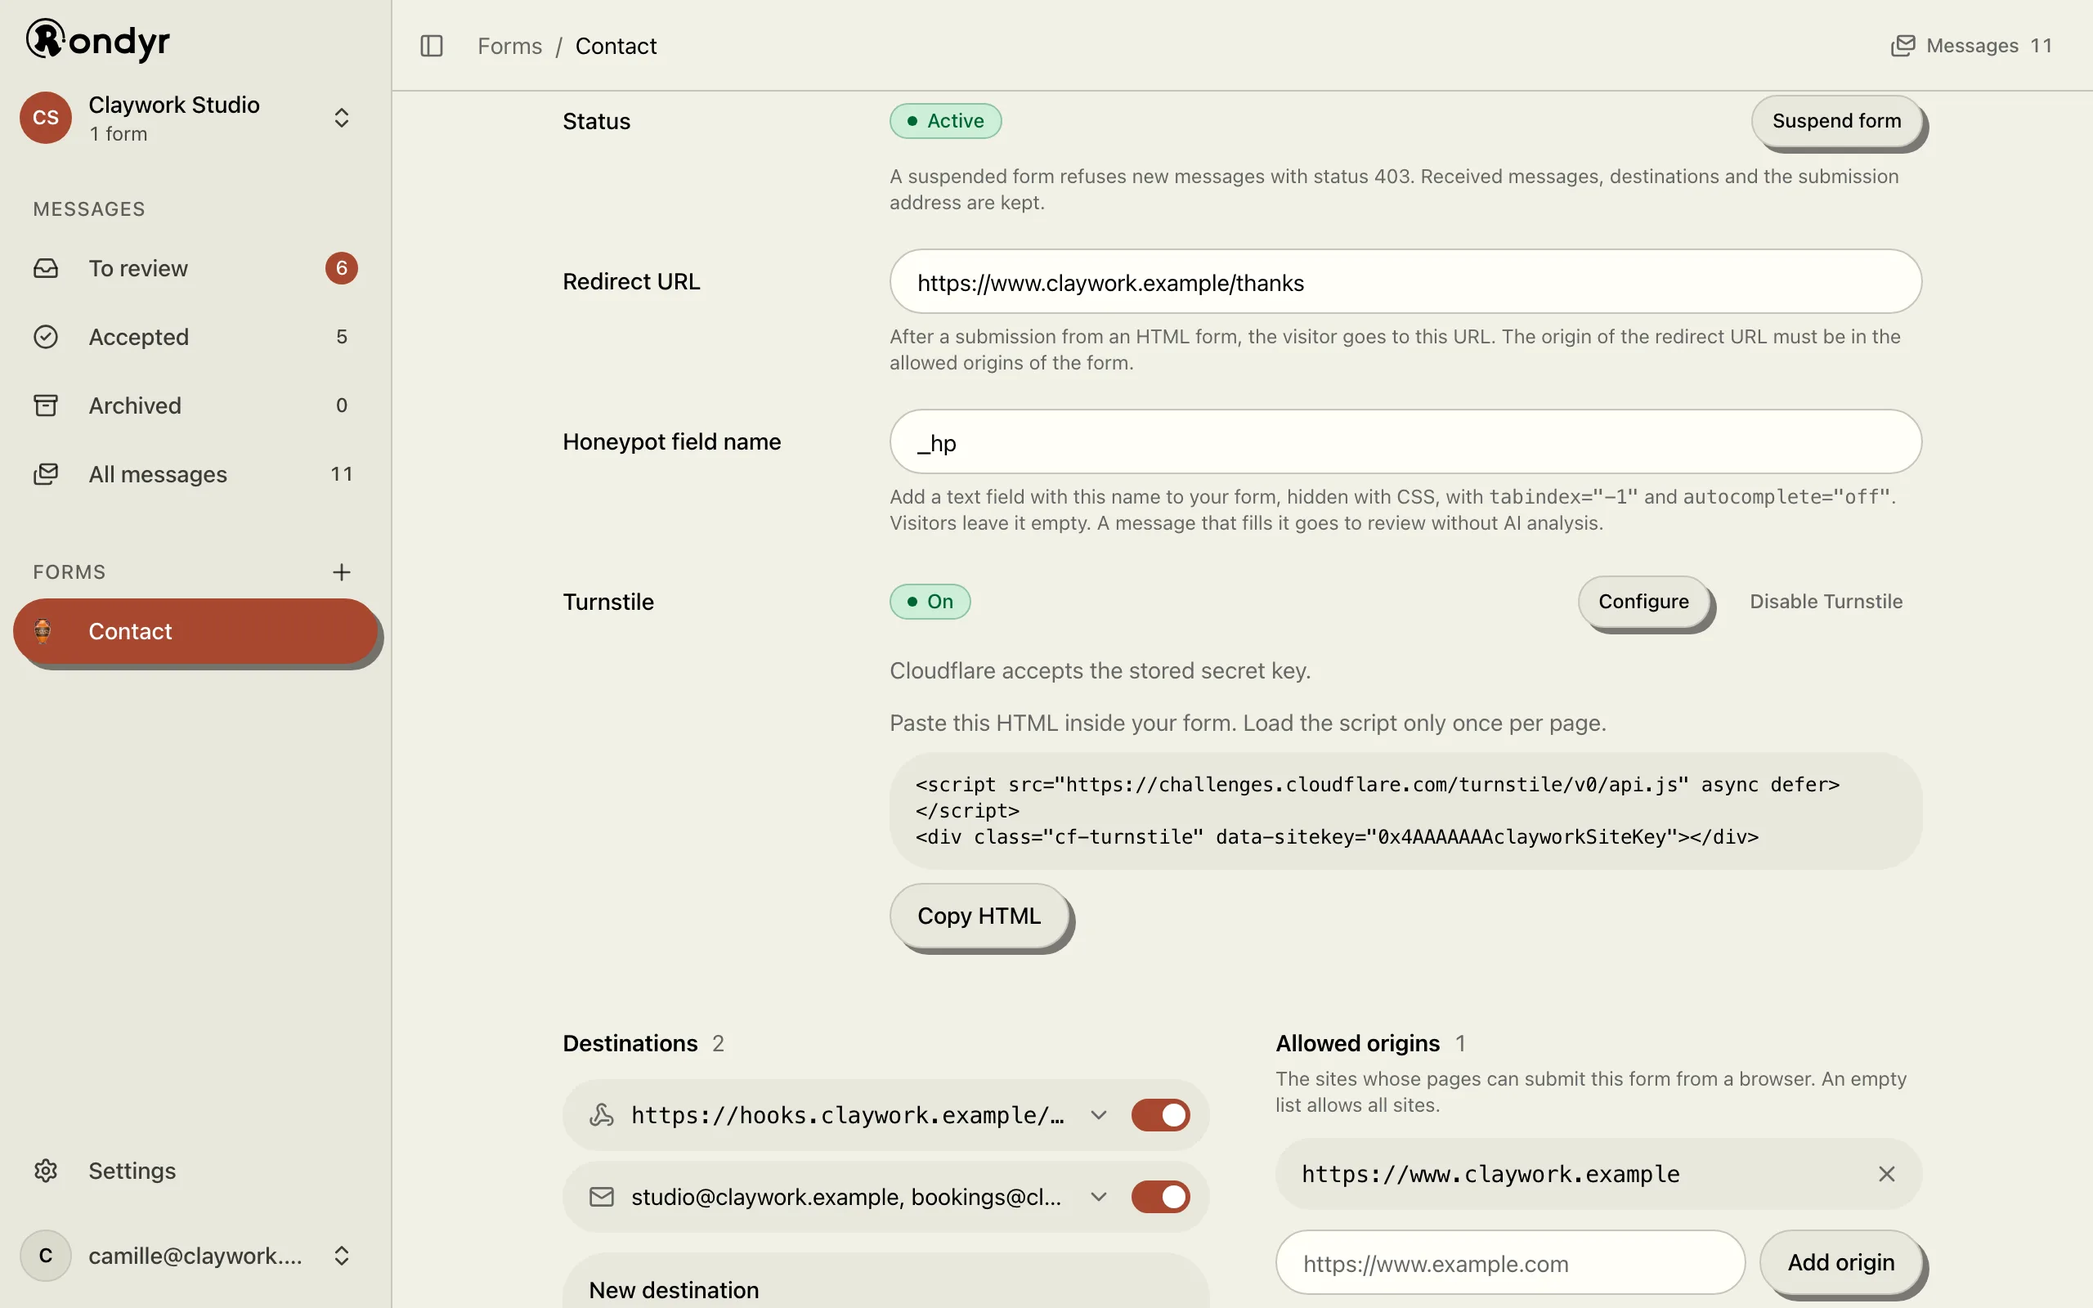
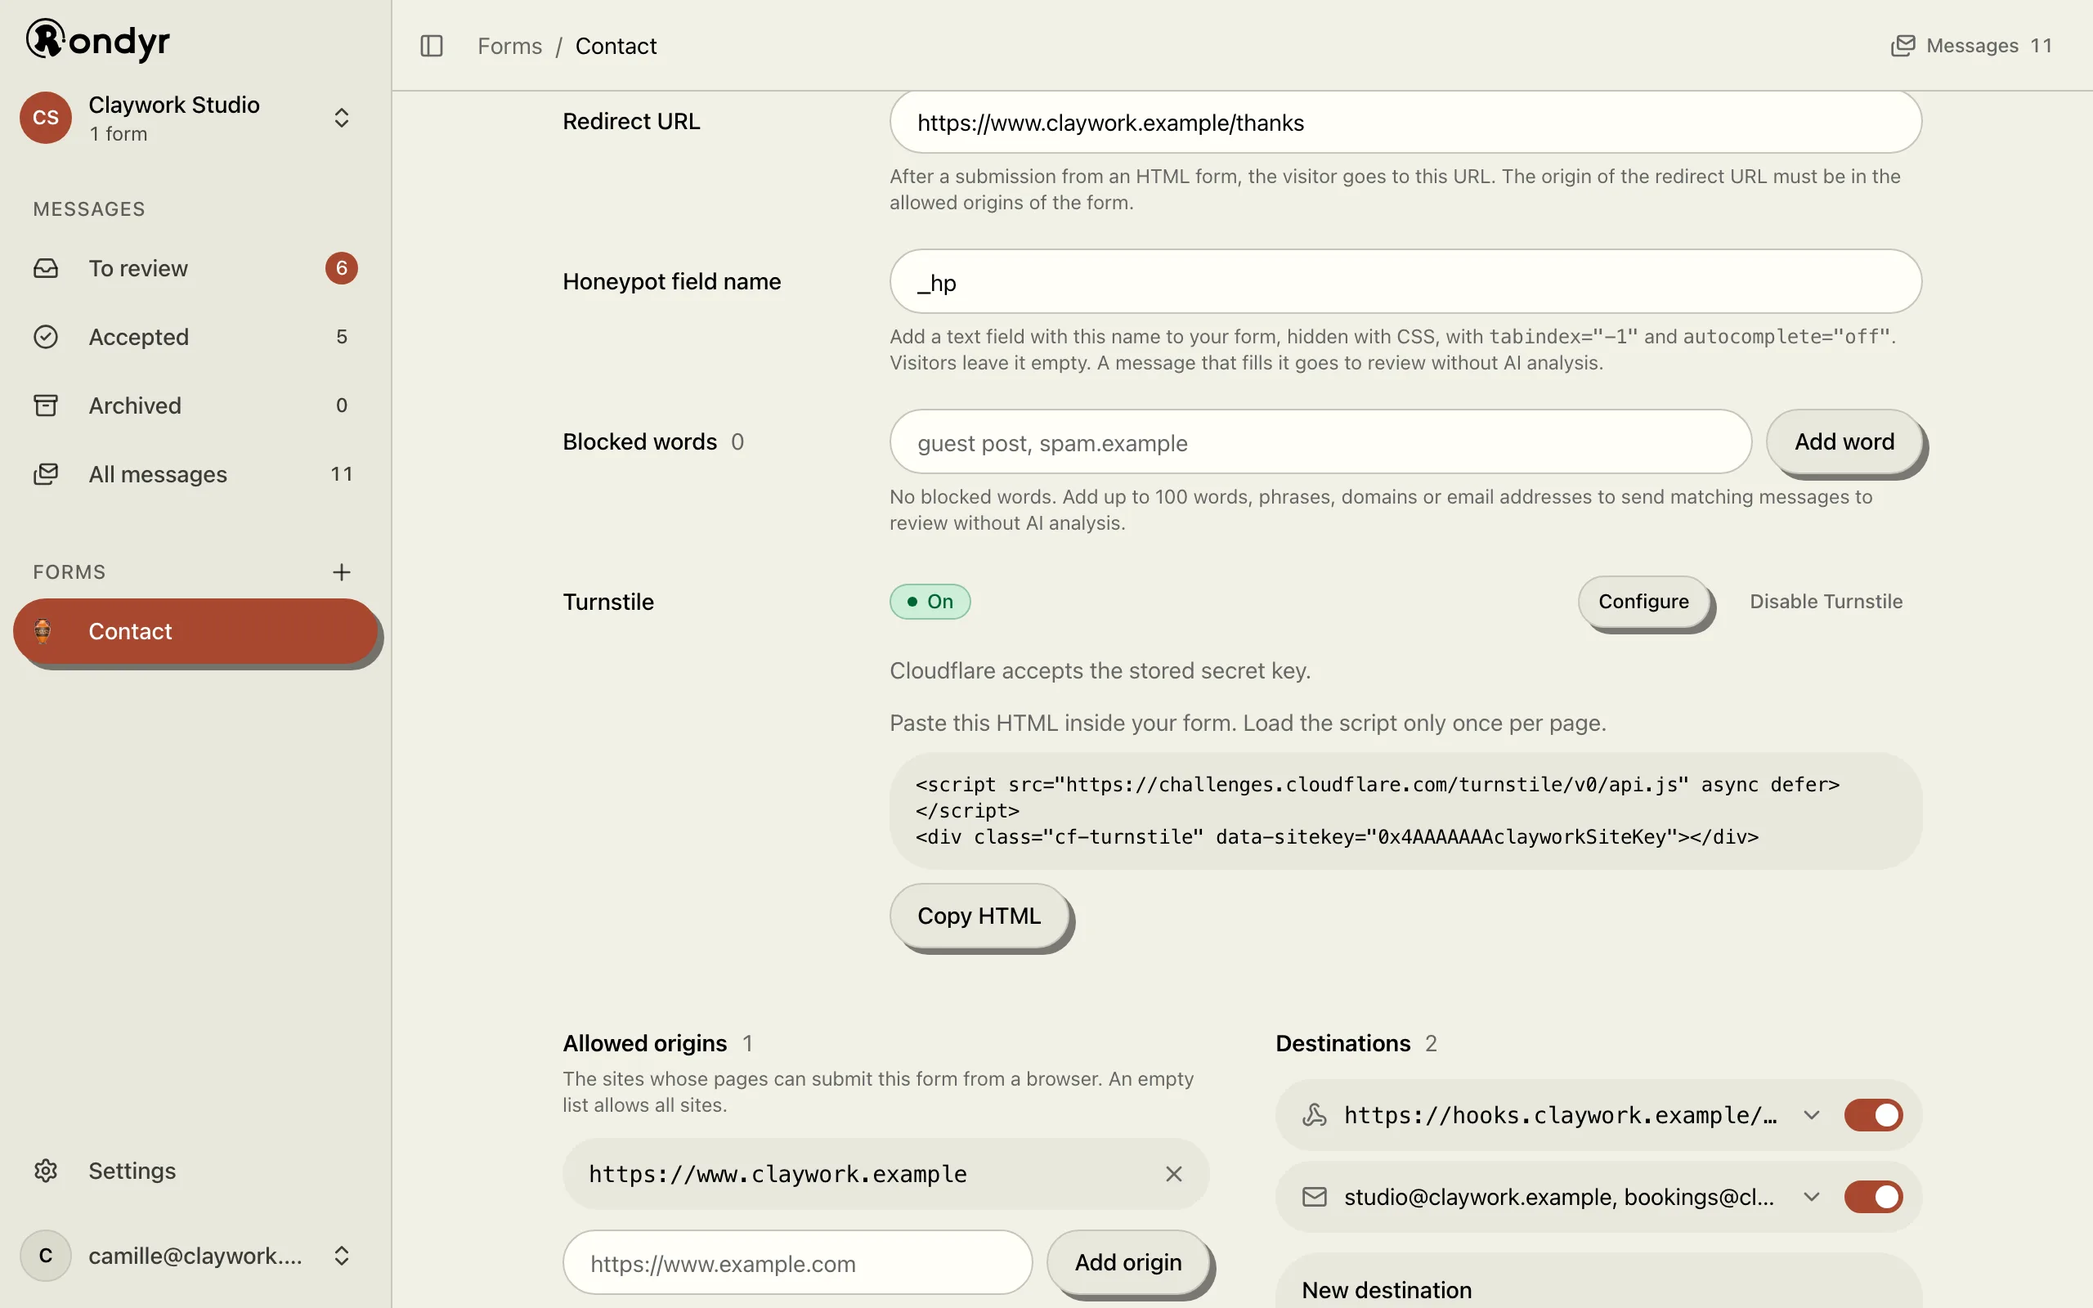
Tidy the page of a form in the dashboard
- The name and the description edited in place have 16px of padding
  (12px on a phone) in place of 8px, and the description has the 20px
  corners of a multi-line field. The emoji starts at the same edge.
- Textarea has 20px corners, the curve of the ends of an input.
- The blocked words are a setting between the honeypot field and
  Turnstile, with their count next to their name.
- The allowed origins come before the destinations.
- The screenshots of the form page and their alt texts follow.

diff --git a/apps/rondyr/src/dashboard/features/forms/blocked-terms.tsx b/apps/rondyr/src/dashboard/features/forms/blocked-terms.tsx
@@ -20,6 +20,8 @@ import {
 } from "~/lib/api/blocked-terms";
 import type { ManagedForm } from "~/lib/api/forms";
 
+import { Field } from "./form-field.tsx";
+
 type BlockedTermFailure = BlockedTermRequestError | "unexplained";
 
 async function attempt(request: () => Promise<void>): Promise<BlockedTermFailure | null> {
@@ -57,6 +59,10 @@ interface BlockedTermsProps {
   readonly form: ManagedForm;
 }
 
+/**
+ * The blocked words of a form, as a setting of its page: the field that adds one, then
+ * the words, each with the button that removes it.
+ */
 export function BlockedTerms({ organizationId, form }: BlockedTermsProps) {
   const { t } = useTranslation();
   const [input, setInput] = useState("");
@@ -90,67 +96,25 @@ export function BlockedTerms({ organizationId, form }: BlockedTermsProps) {
     null,
   );
 
-  const title = useId();
+  const ids = useId();
   return (
-    <section
-      aria-label={t("inbox.blockedTerms.label", { name: form.name })}
-      className="grid min-w-0 grid-cols-1 content-start gap-3"
+    <Field
+      label={t("inbox.sections.blockedTerms")}
+      count={terms?.length}
+      htmlFor={`${ids}-term`}
+      hintId={`${ids}-hint`}
+      hint={
+        terms?.length === 0
+          ? t("inbox.blockedTerms.empty", { limit: maxFormBlockedTerms })
+          : t("inbox.blockedTerms.description", { limit: maxFormBlockedTerms })
+      }
     >
-      <div className="grid gap-1">
-        <h2 id={title} className="flex items-baseline gap-2 font-semibold">
-          {t("inbox.sections.blockedTerms")}
-          {terms !== null && (
-            <span className="text-sm font-normal text-muted-foreground tabular-nums">
-              {terms.length}
-            </span>
-          )}
-        </h2>
-        <p className="text-xs text-pretty text-muted-foreground">
-          {terms?.length === 0
-            ? t("inbox.blockedTerms.empty", { limit: maxFormBlockedTerms })
-            : t("inbox.blockedTerms.description", { limit: maxFormBlockedTerms })}
-        </p>
-      </div>
-      {query.isError && (
-        <ReadFailure
-          cause={query.error}
-          title={t("inbox.blockedTerms.loadFailed")}
-          retry={t("common.retry")}
-          retrying={query.isFetching}
-          onRetry={() => void query.refetch()}
-        />
-      )}
-      {query.isPending && <ChipListSkeleton label={t("inbox.blockedTerms.loading")} />}
-      {terms !== null && terms.length > 0 && (
-        <ul aria-labelledby={title} className="flex flex-wrap gap-1.5">
-          {terms.map((item) => (
-            <li key={item.term} className="max-w-full rounded-md bg-muted">
-              <form action={remove} className="flex min-h-9 items-center gap-1 pr-1 pl-3">
-                <code className="min-w-0 font-mono text-sm wrap-anywhere">{item.term}</code>
-                <input type="hidden" name="term" value={item.term} />
-                <Button
-                  type="submit"
-                  variant="ghost"
-                  size="icon-sm"
-                  className="pointer-coarse:before:hidden"
-                  aria-label={t("inbox.blockedTerms.removeLabel", { term: item.term })}
-                  disabled={removing}
-                >
-                  <X aria-hidden="true" className="size-4" />
-                </Button>
-              </form>
-            </li>
-          ))}
-        </ul>
-      )}
-      <BlockedTermFailureNote
-        failure={removeFailure}
-        fallback={t("inbox.blockedTerms.problems.notRemoved")}
-      />
-      <form action={add} className="grid max-w-xl gap-2">
+      <form action={add} className="grid gap-1.5">
         <div className="flex flex-wrap gap-2">
           <Input
+            id={`${ids}-term`}
             aria-label={t("inbox.blockedTerms.term")}
+            aria-describedby={`${ids}-hint`}
             className="min-w-0 flex-1 basis-48"
             name="term"
             value={input}
@@ -176,6 +140,45 @@ export function BlockedTerms({ organizationId, form }: BlockedTermsProps) {
           fallback={t("inbox.blockedTerms.problems.notAdded")}
         />
       </form>
-    </section>
+      {query.isError && (
+        <ReadFailure
+          cause={query.error}
+          title={t("inbox.blockedTerms.loadFailed")}
+          retry={t("common.retry")}
+          retrying={query.isFetching}
+          onRetry={() => void query.refetch()}
+        />
+      )}
+      {query.isPending && <ChipListSkeleton label={t("inbox.blockedTerms.loading")} />}
+      {terms !== null && terms.length > 0 && (
+        <ul
+          aria-label={t("inbox.blockedTerms.label", { name: form.name })}
+          className="flex flex-wrap gap-1.5"
+        >
+          {terms.map((item) => (
+            <li key={item.term} className="max-w-full rounded-md bg-muted">
+              <form action={remove} className="flex min-h-9 items-center gap-1 pr-1 pl-3">
+                <code className="min-w-0 font-mono text-sm wrap-anywhere">{item.term}</code>
+                <input type="hidden" name="term" value={item.term} />
+                <Button
+                  type="submit"
+                  variant="ghost"
+                  size="icon-sm"
+                  className="pointer-coarse:before:hidden"
+                  aria-label={t("inbox.blockedTerms.removeLabel", { term: item.term })}
+                  disabled={removing}
+                >
+                  <X aria-hidden="true" className="size-4" />
+                </Button>
+              </form>
+            </li>
+          ))}
+        </ul>
+      )}
+      <BlockedTermFailureNote
+        failure={removeFailure}
+        fallback={t("inbox.blockedTerms.problems.notRemoved")}
+      />
+    </Field>
   );
 }

diff --git a/apps/rondyr/src/dashboard/features/forms/form-page.tsx b/apps/rondyr/src/dashboard/features/forms/form-page.tsx
@@ -31,8 +31,9 @@ import { FormTurnstile } from "./form-turnstile.tsx";
 const code = <code className="font-mono wrap-anywhere" />;
 
 // A text edited in place: it looks like the page's text until it is pointed at or focused.
+// Its field is wider than the page's column by its padding, so the text stays on the column.
 const inPlace =
-  "-mx-2 w-[calc(100%+1rem)] min-w-0 rounded-md bg-transparent px-2 transition-colors duration-150 ease-out hover:bg-muted focus:bg-muted disabled:opacity-50";
+  "-mx-3 w-[calc(100%+1.5rem)] min-w-0 bg-transparent px-3 transition-colors duration-150 ease-out hover:bg-muted focus:bg-muted disabled:opacity-50 sm:-mx-4 sm:w-[calc(100%+2rem)] sm:px-4";
 
 interface PageBarProps {
   readonly title: string;
@@ -132,8 +133,8 @@ interface FormPageProps {
 
 /**
  * Everything about one form on one page: its emoji, its name and its business
- * at the top, edited in place; its settings as fields; then its destinations
- * and its allowed origins side by side.
+ * at the top, edited in place; its settings as fields; then its allowed origins
+ * and its destinations side by side.
  */
 export function FormPage({ organizationId, form, destinations }: FormPageProps) {
   const { t } = useTranslation();
@@ -179,7 +180,7 @@ export function FormPage({ organizationId, form, destinations }: FormPageProps) 
         aria-label={t("inbox.forms.settings", { name: form.name })}
         className="mx-auto max-w-4xl px-5 pt-8 pb-16 sm:px-8"
       >
-        <div className="-ml-2">
+        <div className="-ml-3 sm:-ml-4">
           <EmojiPicker
             size="lg"
             value={emojiOf(form)}
@@ -197,7 +198,7 @@ export function FormPage({ organizationId, form, destinations }: FormPageProps) 
             maxLength={100}
             autoComplete="off"
             disabled={saving}
-            className={`${inPlace} h-12 text-2xl font-semibold tracking-tight sm:text-3xl`}
+            className={`${inPlace} h-12 rounded-md text-2xl font-semibold tracking-tight sm:text-3xl`}
             onKeyDown={(event) => {
               if (event.key === "Enter") event.currentTarget.blur();
             }}
@@ -217,7 +218,7 @@ export function FormPage({ organizationId, form, destinations }: FormPageProps) 
           rows={2}
           maxLength={2000}
           disabled={saving}
-          className={`${inPlace} mt-1 field-sizing-content max-w-[80ch] resize-none py-1.5 text-base text-pretty text-muted-foreground placeholder:text-muted-foreground/70 focus:text-foreground pointer-fine:text-sm`}
+          className={`${inPlace} mt-1 field-sizing-content max-w-[calc(80ch+1.5rem)] resize-none rounded-xs py-2 text-base text-pretty text-muted-foreground placeholder:text-muted-foreground/70 focus:text-foreground pointer-fine:text-sm`}
           onKeyDown={(event) => {
             if (event.key === "Enter" && (event.metaKey || event.ctrlKey)) {
               event.currentTarget.blur();
@@ -286,25 +287,23 @@ export function FormPage({ organizationId, form, destinations }: FormPageProps) 
               onSave={(field) => save({ change: "honeypot", field })}
             />
           </Field>
+          <BlockedTerms
+            key={`blocked-terms-${form.publicId}`}
+            organizationId={organizationId}
+            form={form}
+          />
           <Field label={t("inbox.forms.turnstile.title")}>
             <FormTurnstile organizationId={organizationId} form={form} onChange={onChange} />
           </Field>
         </div>
 
         <div className="mt-12 grid gap-10 lg:grid-cols-2">
-          {destinations}
           <AllowedOrigins
             key={`origins-${form.publicId}`}
             organizationId={organizationId}
             form={form}
           />
-        </div>
-        <div className="mt-10">
-          <BlockedTerms
-            key={`blocked-terms-${form.publicId}`}
-            organizationId={organizationId}
-            form={form}
-          />
+          {destinations}
         </div>
       </section>
     </main>

diff --git a/apps/rondyr/src/dashboard/features/forms/form-field.tsx b/apps/rondyr/src/dashboard/features/forms/form-field.tsx
@@ -12,6 +12,8 @@ import type { FormFailure } from "./form-problems.tsx";
 
 interface FieldProps {
   readonly label: string;
+  /** How many entries a setting that is a list has, once they are read. */
+  readonly count?: number | undefined;
   /** The ID of the control that the label focuses. A setting of several controls has none. */
   readonly htmlFor?: string;
   /** Help shown under the control. */
@@ -22,7 +24,10 @@ interface FieldProps {
 }
 
 /** A setting of a form: its name beside its control from 40rem, above it under that. */
-export function Field({ label, htmlFor, hint, hintId, children }: FieldProps) {
+export function Field({ label, count, htmlFor, hint, hintId, children }: FieldProps) {
+  const entries = count !== undefined && (
+    <span className="font-normal text-muted-foreground tabular-nums">{count}</span>
+  );
   const content = (
     <div className="grid min-w-0 grid-cols-1 gap-1.5">
       {children}
@@ -38,6 +43,7 @@ export function Field({ label, htmlFor, hint, hintId, children }: FieldProps) {
       <div className="grid gap-x-6 gap-y-1.5 sm:field-columns">
         <Label htmlFor={htmlFor} className="sm:h-10">
           {label}
+          {entries}
         </Label>
         {content}
       </div>
@@ -45,7 +51,10 @@ export function Field({ label, htmlFor, hint, hintId, children }: FieldProps) {
   }
   return (
     <div className="grid gap-x-6 gap-y-1.5 sm:field-columns">
-      <p className="flex items-center text-sm leading-none font-medium sm:h-10">{label}</p>
+      <p className="flex items-center gap-2 text-sm leading-none font-medium sm:h-10">
+        {label}
+        {entries}
+      </p>
       {content}
     </div>
   );

diff --git a/apps/rondyr/src/dashboard/components/ui/textarea.tsx b/apps/rondyr/src/dashboard/components/ui/textarea.tsx
@@ -1,12 +1,16 @@
 import { cn } from "cn";
 import type { ComponentProps } from "react";
 
+/**
+ * A text of several lines. Its corners have the curve of the ends of an input, which a
+ * box of several lines takes without cutting into the first and last lines.
+ */
 export function Textarea({ className, ...props }: ComponentProps<"textarea">) {
   return (
     <textarea
       data-slot="textarea"
       className={cn(
-        "flex field-sizing-content min-h-20 w-full rounded-md border border-border bg-input px-4 py-2.5 text-base transition-colors duration-150 ease-out placeholder:text-muted-foreground disabled:opacity-50 aria-invalid:border-destructive pointer-fine:text-sm",
+        "flex field-sizing-content min-h-20 w-full rounded-xs border border-border bg-input px-4 py-2.5 text-base transition-colors duration-150 ease-out placeholder:text-muted-foreground disabled:opacity-50 aria-invalid:border-destructive pointer-fine:text-sm",
         className,
       )}
       {...props}

diff --git a/apps/rondyr/src/dashboard/components/form-emoji.tsx b/apps/rondyr/src/dashboard/components/form-emoji.tsx
@@ -66,7 +66,10 @@ export function EmojiPicker({ value, onChange, disabled, size }: EmojiPickerProp
             disabled={disabled}
             className={cn(
               "flex shrink-0 items-center justify-center rounded-md leading-none transition-colors duration-150 ease-out hover:bg-muted disabled:pointer-events-none disabled:opacity-50 data-popup-open:bg-muted",
-              size === "lg" ? "size-16 text-5xl" : "size-10 text-2xl pointer-coarse:size-11",
+              // The emoji has the padding of the texts edited in place under it on the page.
+              size === "lg"
+                ? "h-16 w-18 text-5xl sm:w-20"
+                : "size-10 text-2xl pointer-coarse:size-11",
             )}
           />
         }

diff --git a/docs/forms.md b/docs/forms.md
@@ -8,7 +8,7 @@ In the sidebar of the dashboard, **Forms** lists the forms of your organization.
 
 A form has one page, with its name and its settings at the top, then its **Destinations** and its **Allowed origins**. The name, the business description, the redirect URL and the honeypot field name save when you leave the field or press Enter.
 
-![Page of the Contact form showing its emoji and name, the submission address with its copy button, the status, the redirect URL and the honeypot field name](./screenshots/forms.webp)
+![Page of the Contact form showing its emoji and name, the submission address with its copy button, the status, the redirect URL, the honeypot field name and the blocked words](./screenshots/forms.webp)
 
 Select the copy button in **Submission address** to copy your form's public URL. It looks like `https://forms.example.com/f/YOUR_PUBLIC_ID` and never changes, even if you rename the form later.
 
@@ -82,7 +82,7 @@ By default, a form accepts browser submissions from any origin. To make sure onl
 1. Open your form from **Forms** in the sidebar and go to **Allowed origins**, at the end of its page.
 2. Enter your site's origin, such as `https://www.example.com`, and select **Add origin**.
 
-![Destinations and allowed origins of the Contact form, with https://www.claywork.example in the allowed origins](./screenshots/origins.webp)
+![Allowed origins and destinations of the Contact form, with https://www.claywork.example in the allowed origins](./screenshots/origins.webp)
 
 An origin is just the scheme, host, and optional port, with no path or wildcard. Origins must use `https://`, except `http://localhost` and loopback addresses (`http://127.0.0.1:8080`) for local testing. Once a form lists at least one origin, browsers on any other site are refused. Keep in mind that allowed origins stop other websites from submitting through their visitors' browsers, not automated scripts outside a browser; see [Fight spam](./spam-protection.md) for bot defenses.
 

diff --git a/docs/spam-protection.md b/docs/spam-protection.md
@@ -43,7 +43,7 @@ When a visitor leaves `_hp` blank, Rondyr strips it out before saving the messag
 
 For persistent bots that ignore honeypots, attach a [Cloudflare Turnstile](https://developers.cloudflare.com/turnstile/get-started/) widget to your form.
 
-![Page of the Contact form showing the honeypot field name and Turnstile turned on, with the state of the stored key and the HTML embed snippet](./screenshots/spam-form.webp)
+![Page of the Contact form showing the honeypot field name, the blocked words and Turnstile turned on, with the state of the stored key and the HTML embed snippet](./screenshots/spam-form.webp)
 
 1. In your Cloudflare dashboard, create a Turnstile widget for your website's hostname and copy its **Site key** and **Secret key**.
 2. In Rondyr, open your form from **Forms** in the sidebar, select **Configure** next to **Turnstile**, paste both keys, and select **Save Turnstile keys**. Rondyr checks the secret key with Cloudflare right away so typos are caught before saving.

diff --git a/.changeset/form-page-in-place-fields.md b/.changeset/form-page-in-place-fields.md
@@ -1,0 +1,5 @@
+---
+"rondyr": patch
+---
+
+Tidy the page of a form: the name and the description have more room when they are edited in place, the blocked words are a setting next to the honeypot field and Turnstile, the allowed origins come before the destinations, and every multi-line field has less round corners.
